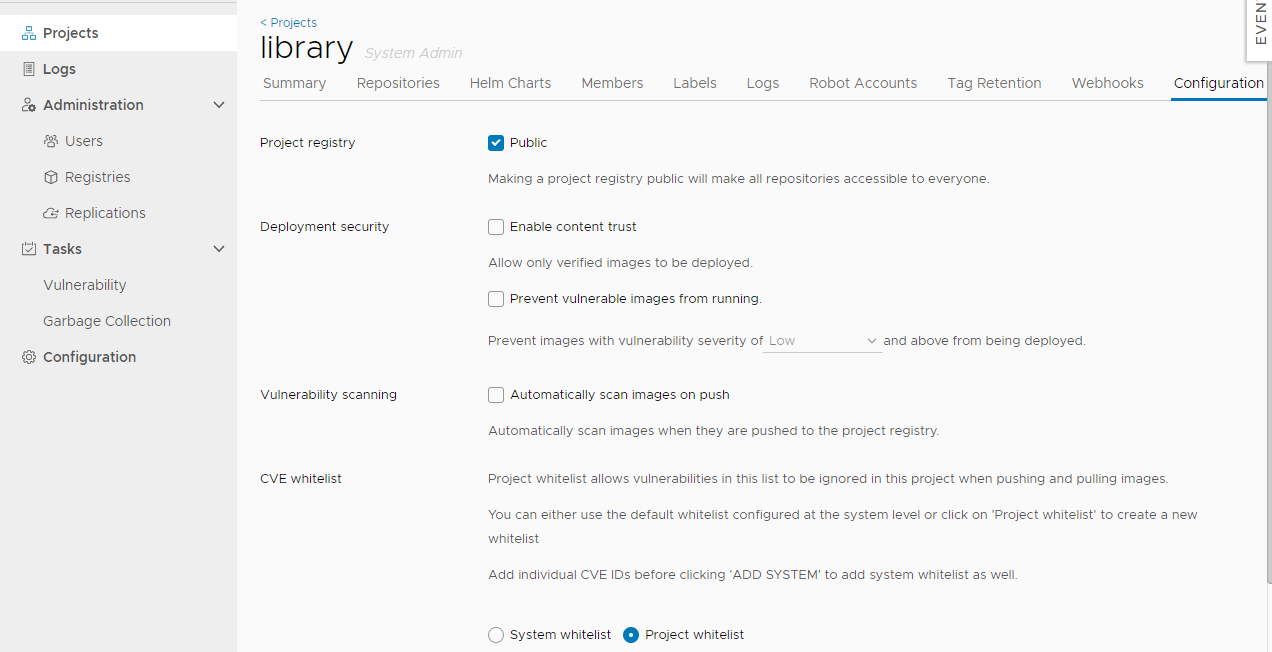
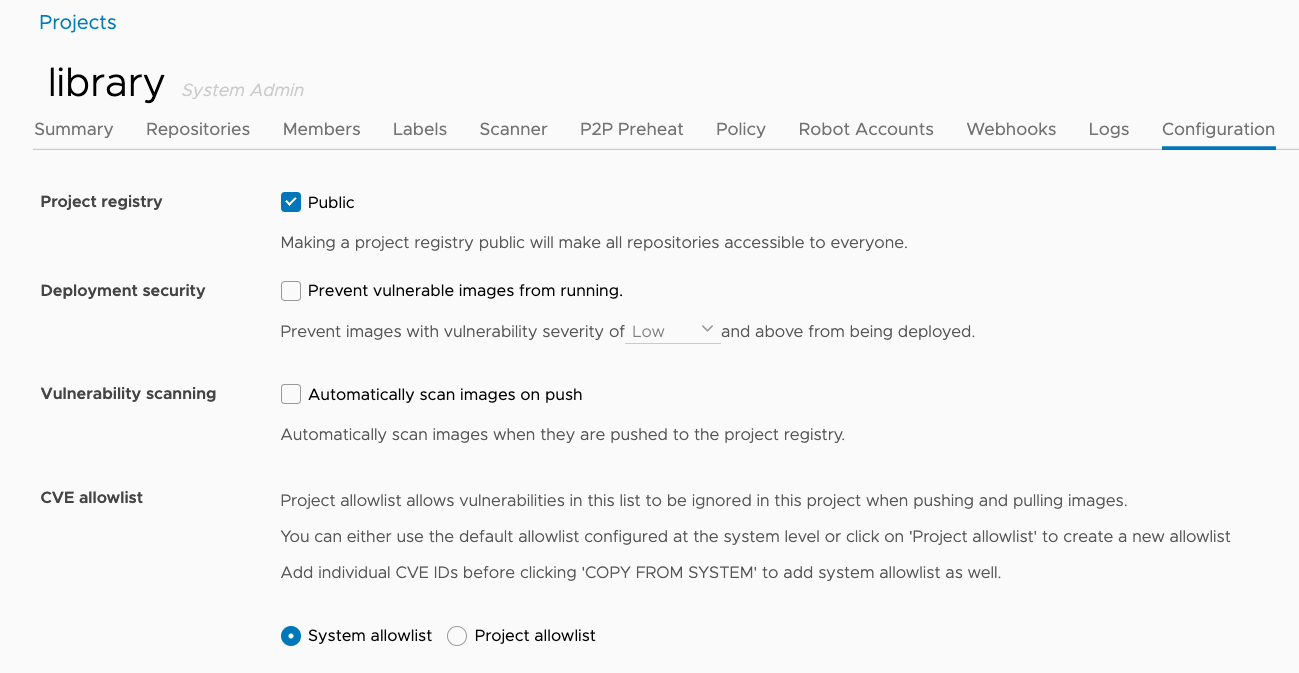
Update doc for racial terms removal
In v2.1.0 we made update to the text on UI:
Whitelist -> Allowlist
Master role -> Maintainer role
This commit make necessary to the doc to reflect this change.

diff --git a/docs/administration/managing-users/_index.md b/docs/administration/managing-users/_index.md
@@ -10,7 +10,7 @@ Harbor manages images through projects. You provide access to these images to us
 * **Limited Guest**: A Limited Guest does not have full read privileges for a project. They can pull images but cannot push, and they cannot see logs or the other members of a project. For example, you can create limited guests for users from different organizations who share access to a project.
 * **Guest**: Guest has read-only privilege for a specified project. They can pull and retag images, but cannot push.
 * **Developer**: Developer has read and write privileges for a project.
-* **Master**: Master has elevated permissions beyond those of 'Developer' including the ability to scan images, view replications jobs, and delete images and helm charts.
+* **Maintainer**: Maintainer has elevated permissions beyond those of 'Developer' including the ability to scan images, view replications jobs, and delete images and helm charts.
 * **ProjectAdmin**: When creating a new project, you will be assigned the "ProjectAdmin" role to the project. Besides read-write privileges, the "ProjectAdmin" also has some management privileges, such as adding and removing members, starting a vulnerability scan.
 
 Besides the above roles, there are two system-level roles:

diff --git a/docs/README.md b/docs/README.md
@@ -1,6 +1,6 @@
 Harbor Documentation
 
-This is the main table of contents for the Harbor 1.10.x documentation.
+This is the main table of contents for the Harbor 2.1.x documentation.
 
 ## Harbor Installation and Configuration
 
@@ -54,7 +54,7 @@ This section describes how to use and maintain Harbor after deployment. These da
 
 ## Working with Harbor Projects
 
-This section describes how users with the developer, master, and project administrator roles manage and participate in Harbor projects.
+This section describes how users with the developer, maintainer, and project administrator roles manage and participate in Harbor projects.
 
 - [Introduction](working-with-projects/_index.md)
 - [Create Projects](working-with-projects/create-projects/_index.md)

diff --git a/docs/working-with-projects/working-with-images/repositories.md b/docs/working-with-projects/working-with-images/repositories.md
@@ -13,7 +13,7 @@ Click your project to enter the project detail page after successful logging in.
 
 ### Description of a repository
 
-Click the repository, then click the "Info" tab.  You can view the description of the project.  Users with project admin, master or developer role can click the "Edit" button to edit the description.  You can style the description via Markdown syntax.
+Click the repository, then click the "Info" tab.  You can view the description of the project.  Users with project admin, maintainer or developer role can click the "Edit" button to edit the description.  You can style the description via Markdown syntax.
 
 ![edit_repository_description](../../../img/edit-repository-description.png)
 

diff --git a/docs/administration/managing-users/user-permissions-by-role.md b/docs/administration/managing-users/user-permissions-by-role.md
@@ -13,7 +13,7 @@ System admin have all permissions for the project.
 
 The following table depicts the various user permission levels in a project.
 
-| Action                                  | Limited Guest | Guest | Developer | Master | Project Admin |
+| Action                                  | Limited Guest | Guest | Developer | Maintainer | Project Admin |
 | --------------------------------------- | ------------- | ----- | --------- | ------ | ------------- |
 | See the project configurations          | ✓             | ✓     | ✓         | ✓      | ✓             |
 | Edit the project configurations         |               |       |           |        | ✓             |

diff --git a/docs/_index.md b/docs/_index.md
@@ -14,7 +14,7 @@ This section describes how to use and maintain your Harbor registry instance aft
 
 ## Working with Harbor Projects
 
-This section describes how users with the developer, master, and project administrator roles manage users, and create, configure, and participate in Harbor projects. [Read more](working-with-projects/_index.md)
+This section describes how users with the developer, maintainer, and project administrator roles manage users, and create, configure, and participate in Harbor projects. [Read more](working-with-projects/_index.md)
 
 ## Building, Customizing, and Contributing to Harbor
 

diff --git a/docs/working-with-projects/_index.md b/docs/working-with-projects/_index.md
@@ -3,4 +3,4 @@ title: Working with Projects
 weight: 15
 ---
 
-This section describes how users with the developer, master, and project administrator roles manage and participate in Harbor projects. The Harbor administrator can also perform all of these tasks.
+This section describes how users with the developer, maintainer, and project administrator roles manage and participate in Harbor projects. The Harbor administrator can also perform all of these tasks.

diff --git a/docs/working-with-projects/project-configuration/access-project-logs.md b/docs/working-with-projects/project-configuration/access-project-logs.md
@@ -7,7 +7,7 @@ Harbor keeps a log of all of the operations that users perform in a project. You
 
 ## Prerequisites
 
-Log in to Harbor with a Harbor administrator, project administrator, master, developer, or guest account.
+Log in to Harbor with a Harbor administrator, project administrator, maintainer, developer, or guest account.
 
 ## Procedure
 
